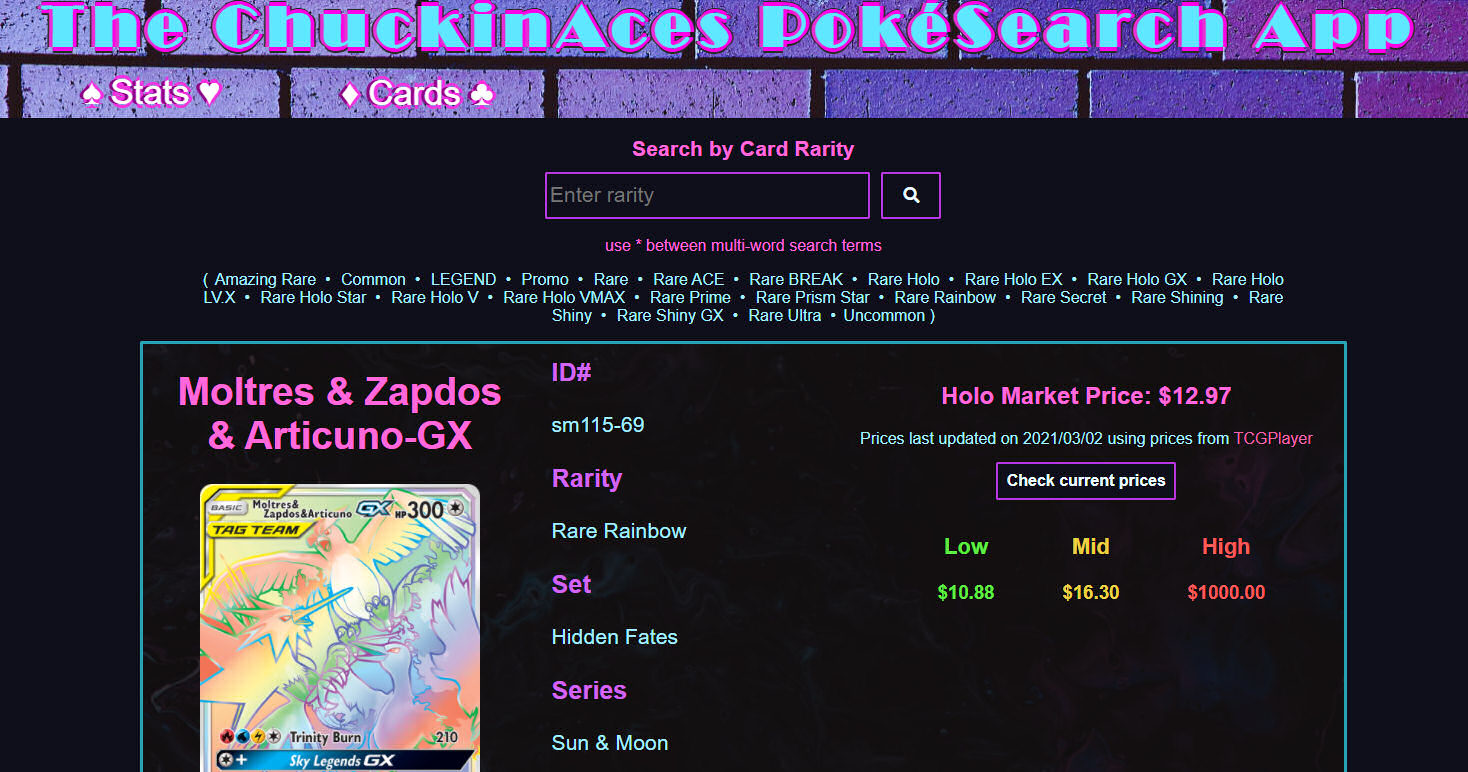
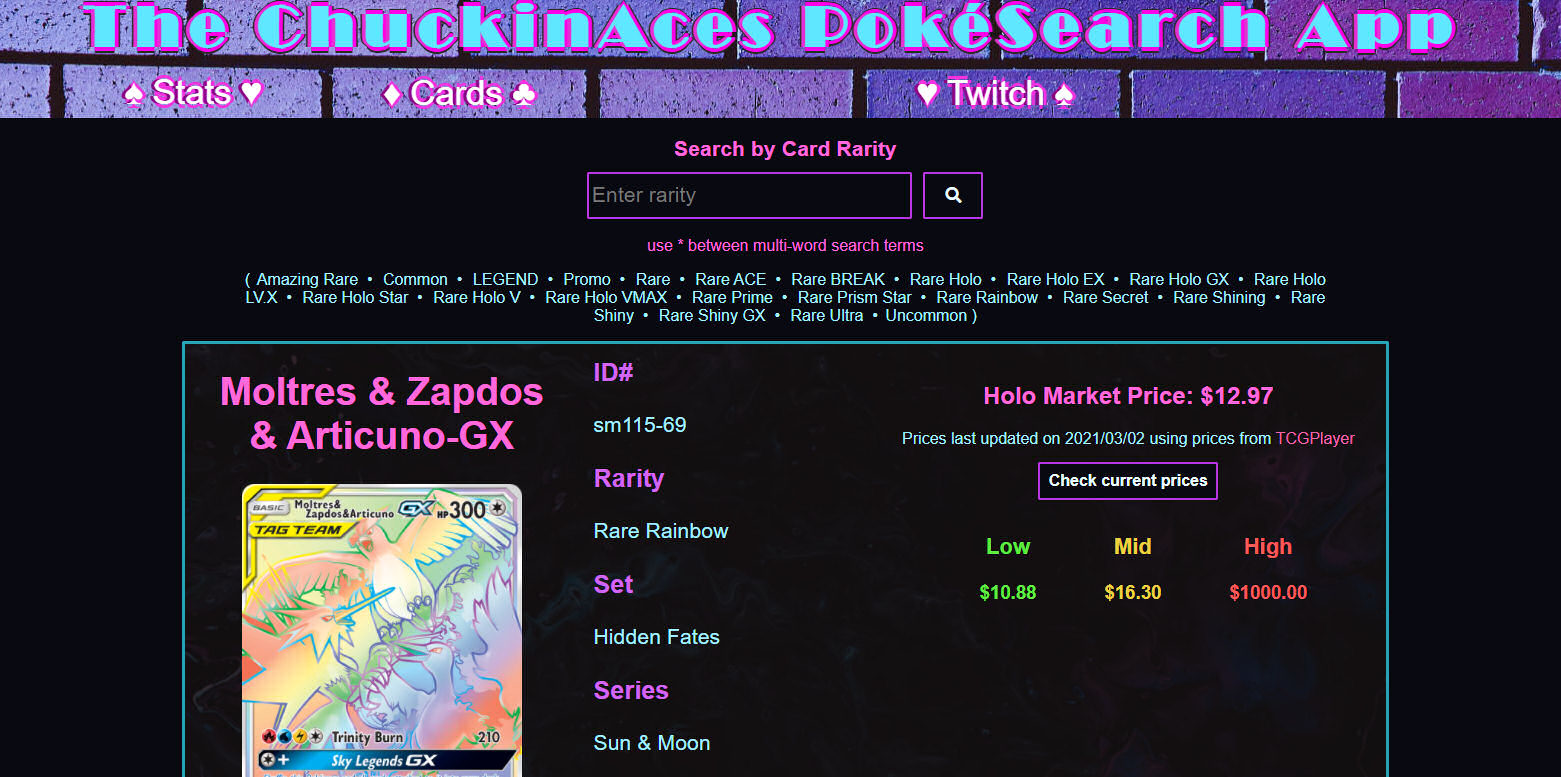
updated chuckinaces image to include twitch link header, moved aboutme p 2% up
updated chuckinaces image to include twitch link header, moved aboutme p 2% up

diff --git a/src/styles.css b/src/styles.css
@@ -114,7 +114,7 @@ resize: vertical;}
     margin-bottom: 130px;}
 
     .aboutMe p {margin-right: 2%;
-        margin-top: 8%;
+        margin-top: 6%;
         color: #d4828b;
         padding-left: 20px;
     font-size: 20px;}
